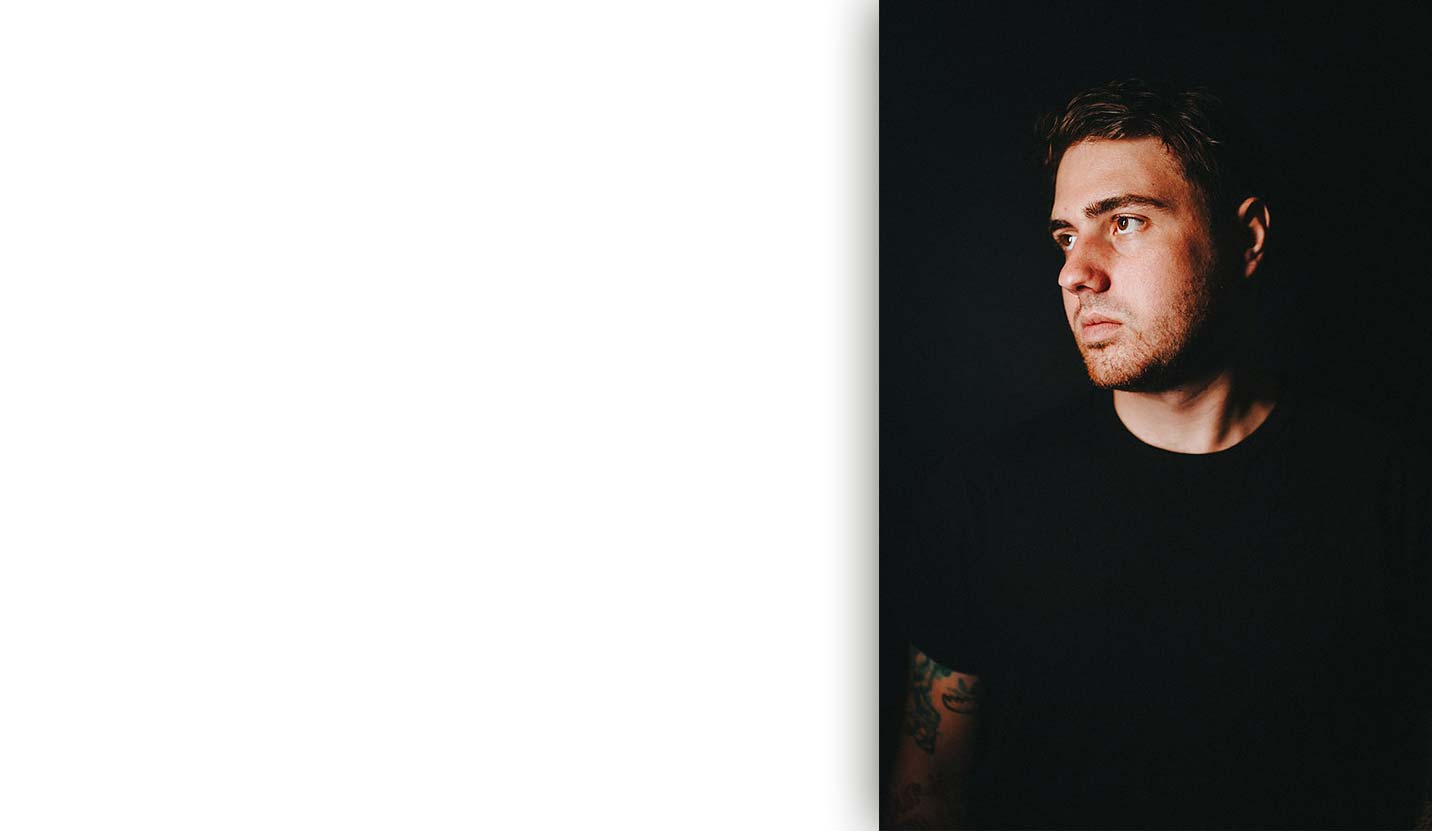
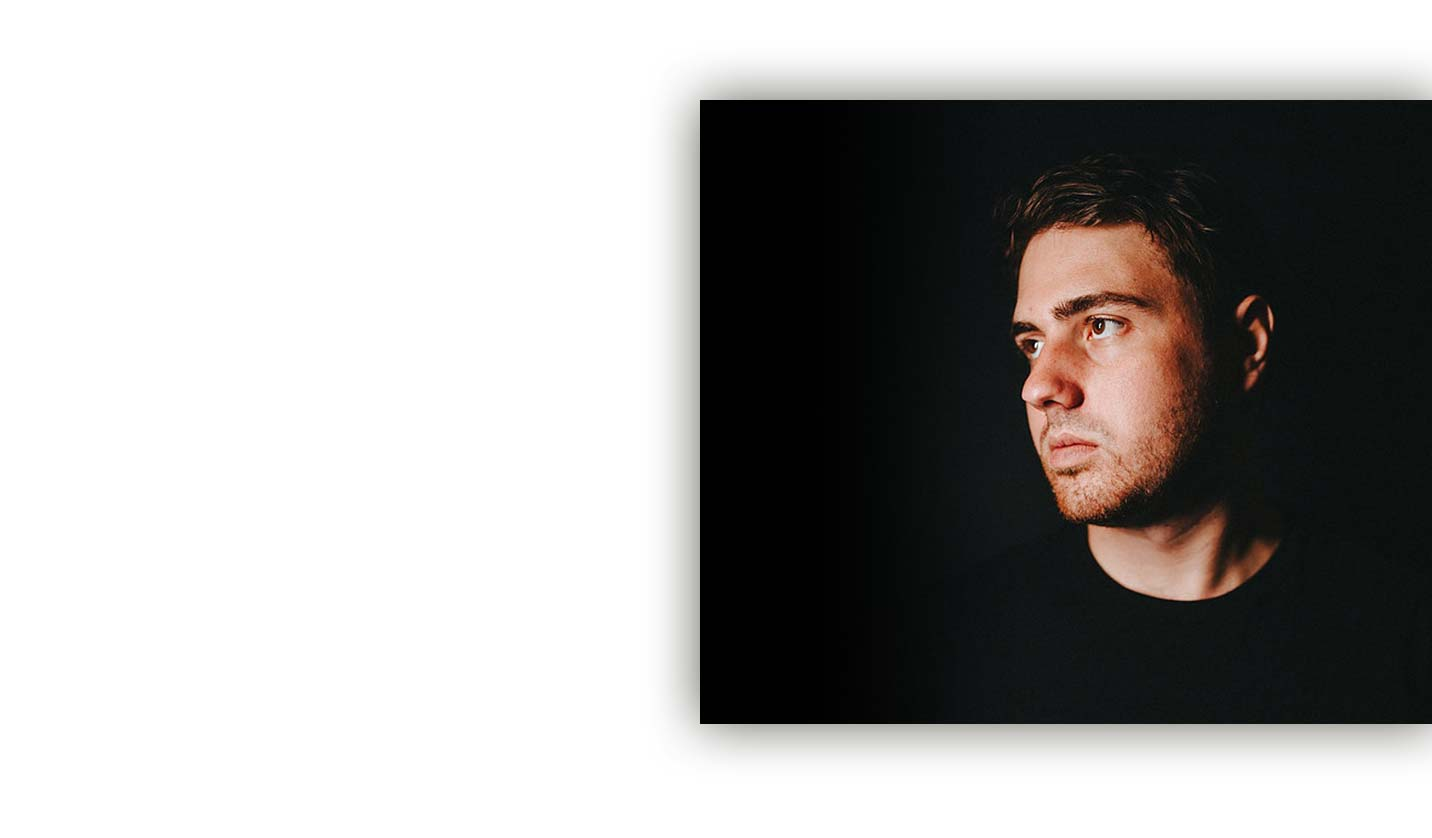
Fixed up the old About Dyami section and did a minor fix with the left meun urls

Changed region(s): [[0.4609, 0.0, 1.0, 1.0]]

diff --git a/themes/dyami-wilson/assets/scss/user-stylesheets/_app.scss b/themes/dyami-wilson/assets/scss/user-stylesheets/_app.scss
@@ -106,6 +106,9 @@ h3{
 	#modal-title{
 		color: $white;
 		padding-bottom: 30px;
+		@include breakpoint(small only){
+			margin-top: 30px;
+		}
 	}
 	#modal-body{
 		box-shadow: 0px 0px 20px 2px rgba(255,255,255,0.5);
@@ -295,6 +298,9 @@ h3{
 			margin-top: 0;
 		}
 	}
+	.all-projects{
+		margin-bottom: 30px;
+	}
 	.feat-work-container{
 		@include breakpoint(small only){
 			display: block !important;
@@ -392,9 +398,21 @@ h3{
 }
 .about{
 	padding: 10% 0;
+	@include breakpoint(small down){
+		padding-left: 20px;
+		padding-right: 20px;
+	}
 	.testimonial-box{
 		border: 3px solid $black;
 		padding: 30px;
+	}
+	.inner-section{
+		@include breakpoint(small down){
+			background-image: none !important;
+		  img{
+		  	margin: 30px 0;
+		  }
+		}
 	}
 }
 

diff --git a/themes/dyami-wilson/page-templates/home-about-dyami.php b/themes/dyami-wilson/page-templates/home-about-dyami.php
@@ -1,28 +1,24 @@
 <section class="about" id="meet-dyami">
+	<section class="inner-section" style="background-image: url(<?php bloginfo('template_directory'); ?>/assets/images/home/meet-dyami-bg-no-shadow.jpg);background-size:cover;background-repeat:no-repeat;background-position: center center">
 		<div class="row">
-			<div class="medium-11 medium-offset-1 columns">
+			<div class="large-5 medium-6 columns">
 				<h2><?php the_field('about_section_title'); ?></h2>
-			</div>
-			<div class="medium-11 medium-offset-1 columns relative">
-				<div class="row">
-					<div class="medium-8 columns end">
-						<div class="row">
-							<div class="medium-11 columns">
-								<?php the_field('about_section_description'); ?>
-							</div>
-						</div>
-						<aside class="testimonial-box">
-							<div class="row">
-								<div class="medium-11 columns">
-									<p><i class="fa fa-quote-left" aria-hidden="true"></i></p>
-									<p><?php the_field('testimonial'); ?></p>
-									<p class="author">&mdash; <?php the_field('testimonial_author'); ?><br><?php the_field('testimonial_author_credentials'); ?></p>
-								</div>
-							</div>
-						</aside>
-					</div>
-					<img src="<?php bloginfo('template_directory'); ?>/assets/images/home/dyami-wilson.jpg" alt="Dyami Wilson">
-				</div>
+				<p class="text-center"><img src="<?php bloginfo('template_directory'); ?>/assets/images/home/meet-dyami.png" alt="Dyami Wilson" class="shadow show-for-small-only"></p>
+				<?php the_field('about_section_description'); ?>
 			</div>
 		</div>
 	</section>
+	<div class="row">
+		<div class="large-5 medium-7 columns">
+			<aside class="testimonial-box">
+				<div class="row">
+					<div class="medium-11 columns">
+						<p><i class="fa fa-quote-left" aria-hidden="true"></i></p>
+						<p><?php the_field('testimonial'); ?></p>
+						<p class="author">&mdash; <?php the_field('testimonial_author'); ?><br><?php the_field('testimonial_author_credentials'); ?></p>
+					</div>
+				</div>
+			</aside>
+		</div>
+	</div>
+</section>

diff --git a/themes/dyami-wilson/page-templates/left-menu.php b/themes/dyami-wilson/page-templates/left-menu.php
@@ -1,19 +1,27 @@
 <aside class="left-menu" id="left-menu">
 	<button class="menu-close">X</button>
-		<div id="left-menu-wrap">
-			<img src="<?php bloginfo('template_directory'); ?>/assets/images/icons/logo-black.jpg" alt="">
-			
-			<!-- Display Left Menu -->
-		  	<?php wp_nav_menu( array( 'theme_location' => 'left-menu','menu_id' => 'left-menu-list','menu_class' => 'left-menu-list','container' => 'ul' )); ?>
-			<ul>
-				<li class="social-icons">
-					<ul>
-						<li><a href="#!" title="Facebook Profile"><i class="fa fa-facebook-official" aria-hidden="true"></i></a></li>
-						<li><a href="#!" title="Twitter Profile"><i class="fa fa-twitter" aria-hidden="true"></i></a></li>
-						<li><a href="#!" title="Spotify Profile"><i class="fa fa-spotify" aria-hidden="true"></i></a></li>
-						<li><a href="#!" title="SoundCloud"><i class="fa fa-soundcloud" aria-hidden="true"></i></a></li>
-					</ul>
-				</li>
-			</ul>
-		</div>
+	<div id="left-menu-wrap">
+		<img src="<?php bloginfo('template_directory'); ?>/assets/images/icons/logo-black.jpg" alt="">
+		
+		<!-- Display Left Menu -->
+	  	<?php wp_nav_menu( array( 'theme_location' => 'left-menu','menu_id' => 'left-menu-list','menu_class' => 'left-menu-list','container' => 'ul' )); ?>
+		<ul>
+			<li class="social-icons">
+				<ul>
+					<li><a href="#!" title="Facebook Profile"><i class="fa fa-facebook-official" aria-hidden="true"></i></a></li>
+					<li><a href="#!" title="Twitter Profile"><i class="fa fa-twitter" aria-hidden="true"></i></a></li>
+					<li><a href="#!" title="Spotify Profile"><i class="fa fa-spotify" aria-hidden="true"></i></a></li>
+					<li><a href="#!" title="SoundCloud"><i class="fa fa-soundcloud" aria-hidden="true"></i></a></li>
+				</ul>
+			</li>
+		</ul>
+	</div>
 </aside>
+
+<script>
+	var siteURL = "<?php echo site_url(); ?>";
+	$('#left-menu-list').find('li a').each(function(){
+		var linkText = $(this).attr('href');
+		$(this).attr('href',siteURL + linkText);
+	});
+</script>

diff --git a/themes/dyami-wilson/page-templates/home-featured-work.php b/themes/dyami-wilson/page-templates/home-featured-work.php
@@ -2,7 +2,7 @@
 		<div class="row">
 			<div class="small-12 columns clearfix">
 				<h2>Featured Work</h2>
-				<p><a href="<?php echo site_url().'/work'; ?>"><button class="btn-black hvr-rectangle-out" style="display:inline-block">View All Projects</button></a></p>
+				<p><a href="<?php echo site_url().'/work'; ?>"><button class="btn-black hvr-rectangle-out all-projects" style="display:inline-block">View All Projects</button></a></p>
 			</div>
 			<div class="clearfix"></div>
 		

diff --git a/themes/dyami-wilson/page-templates/single-related-posts.php b/themes/dyami-wilson/page-templates/single-related-posts.php
@@ -19,7 +19,7 @@
 			while ( $loop->have_posts() ) : $loop->the_post();
 		?>
 
-			<div class="medium-6 large-4 columns end">
+			<div class="medium-6 large-4 columns end" style="margin-bottom:40px">
 
 				<?php if(has_post_format('audio')) { ?>
 				
